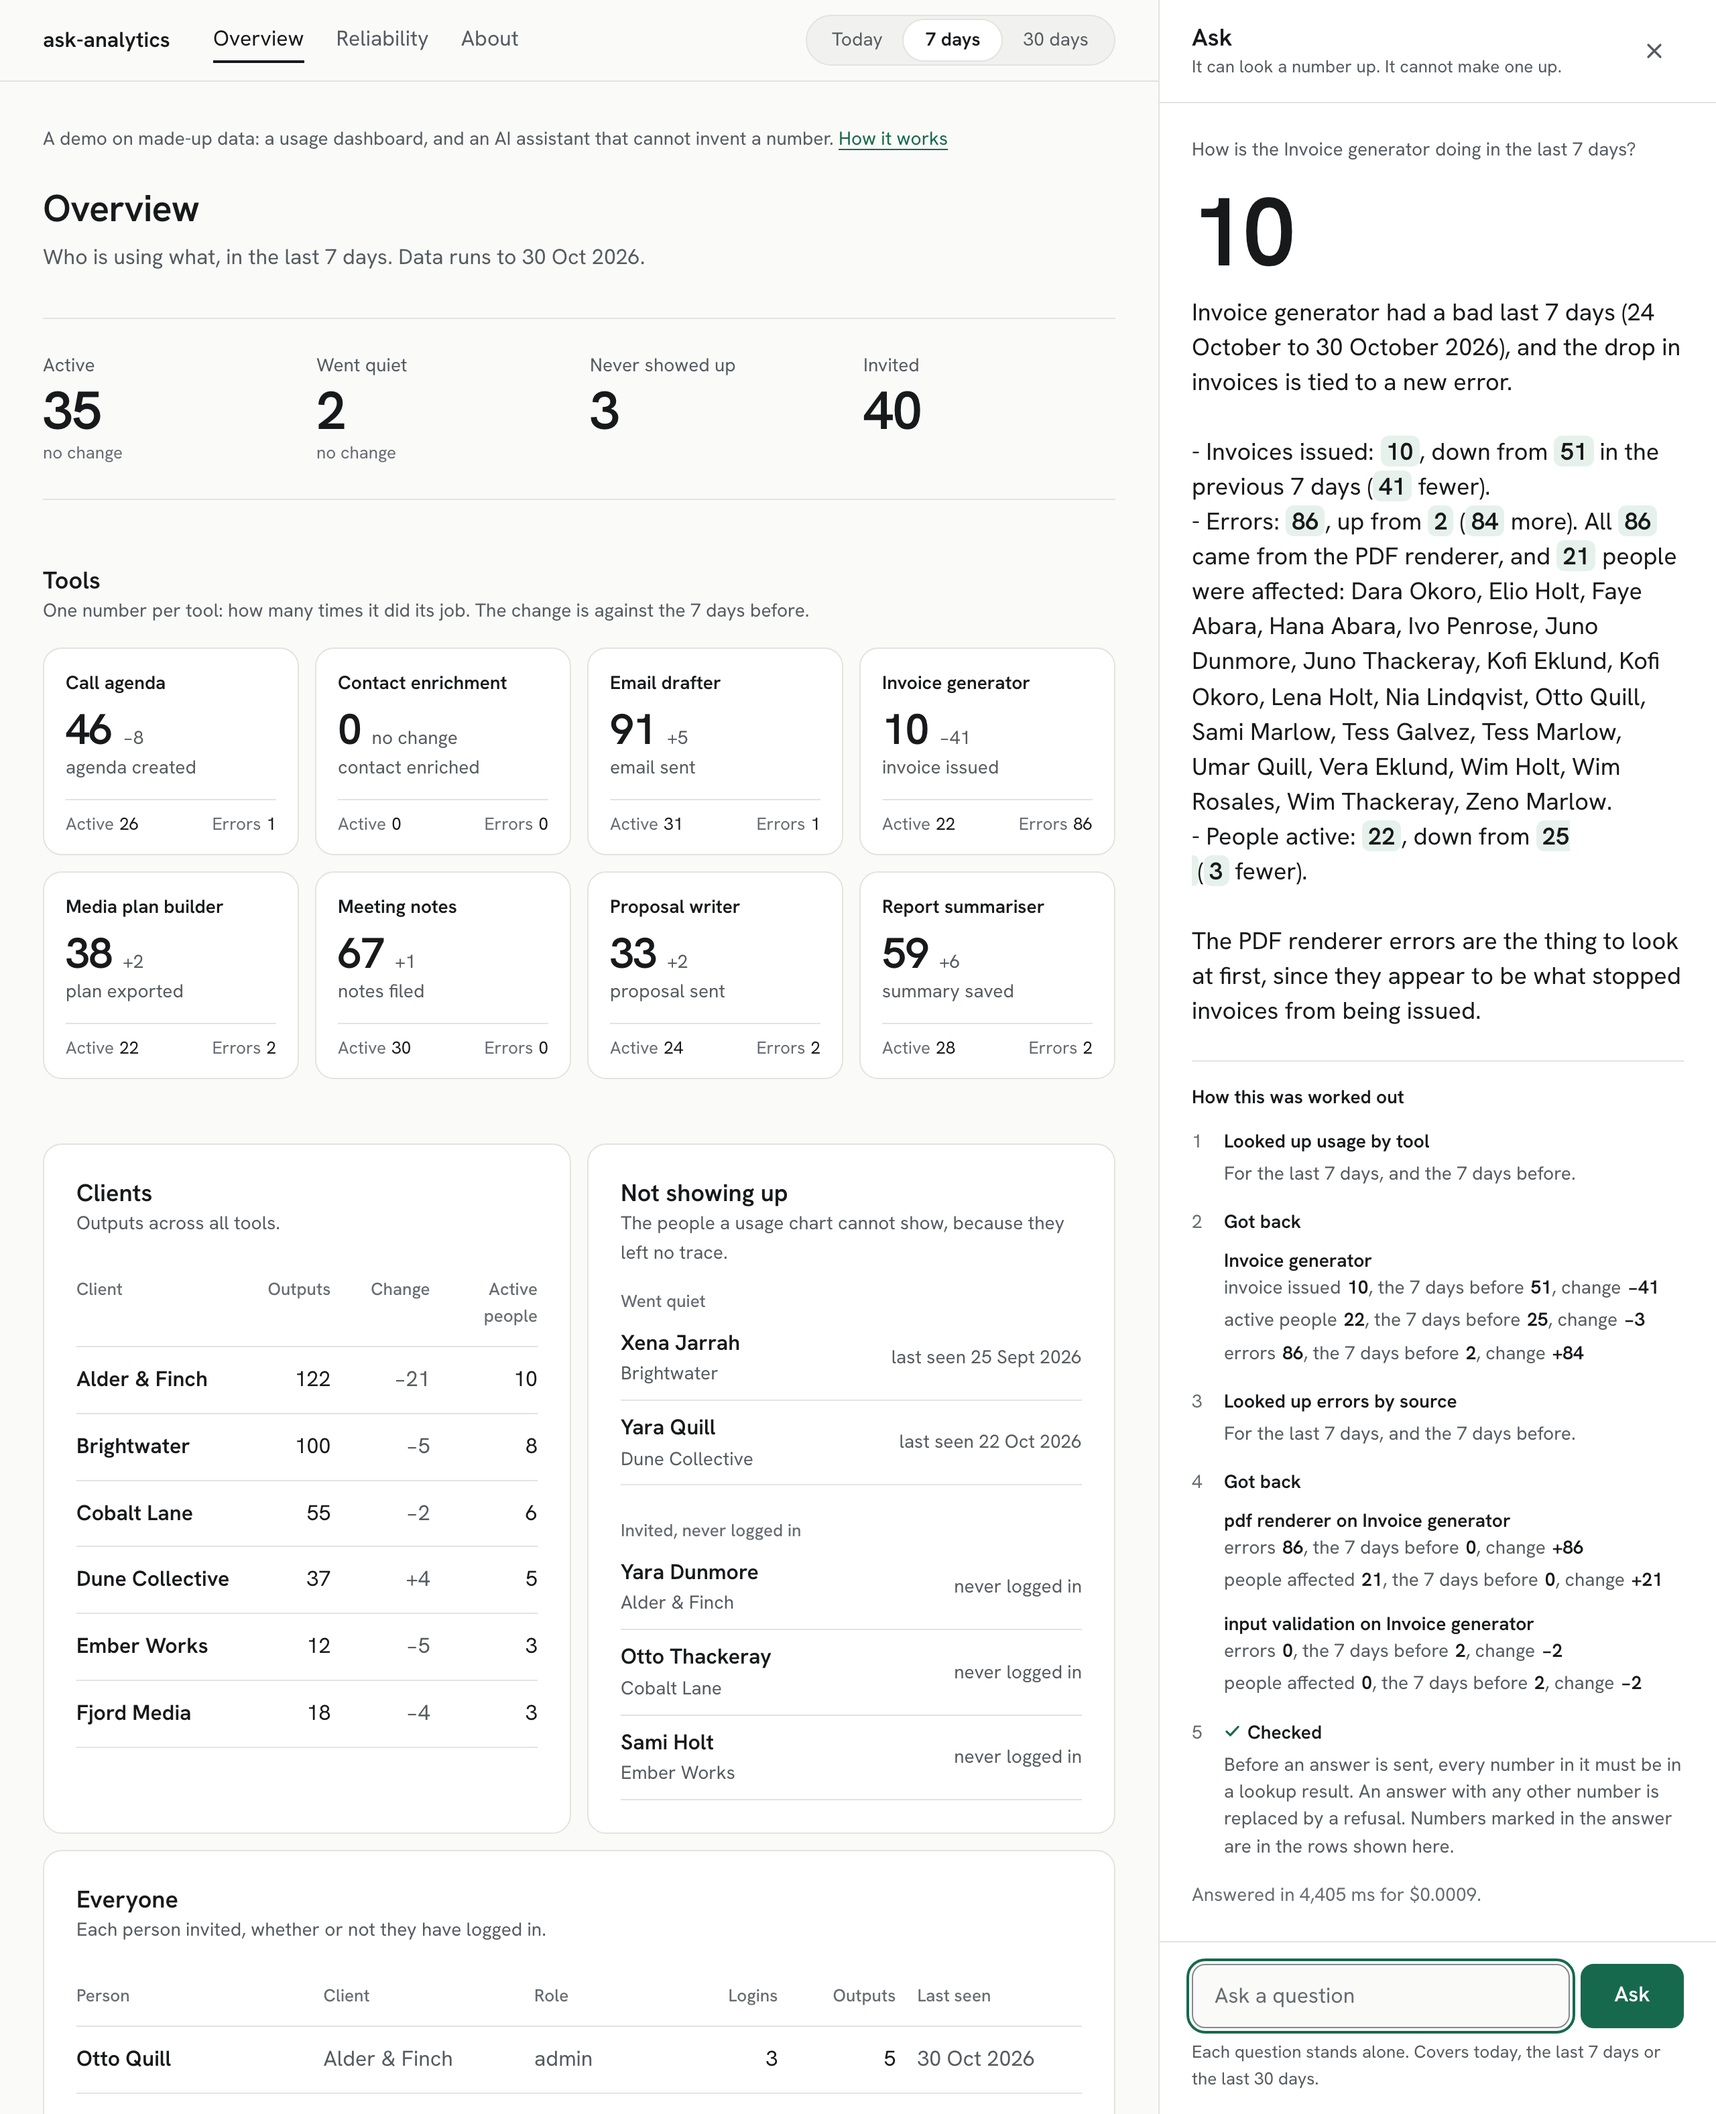
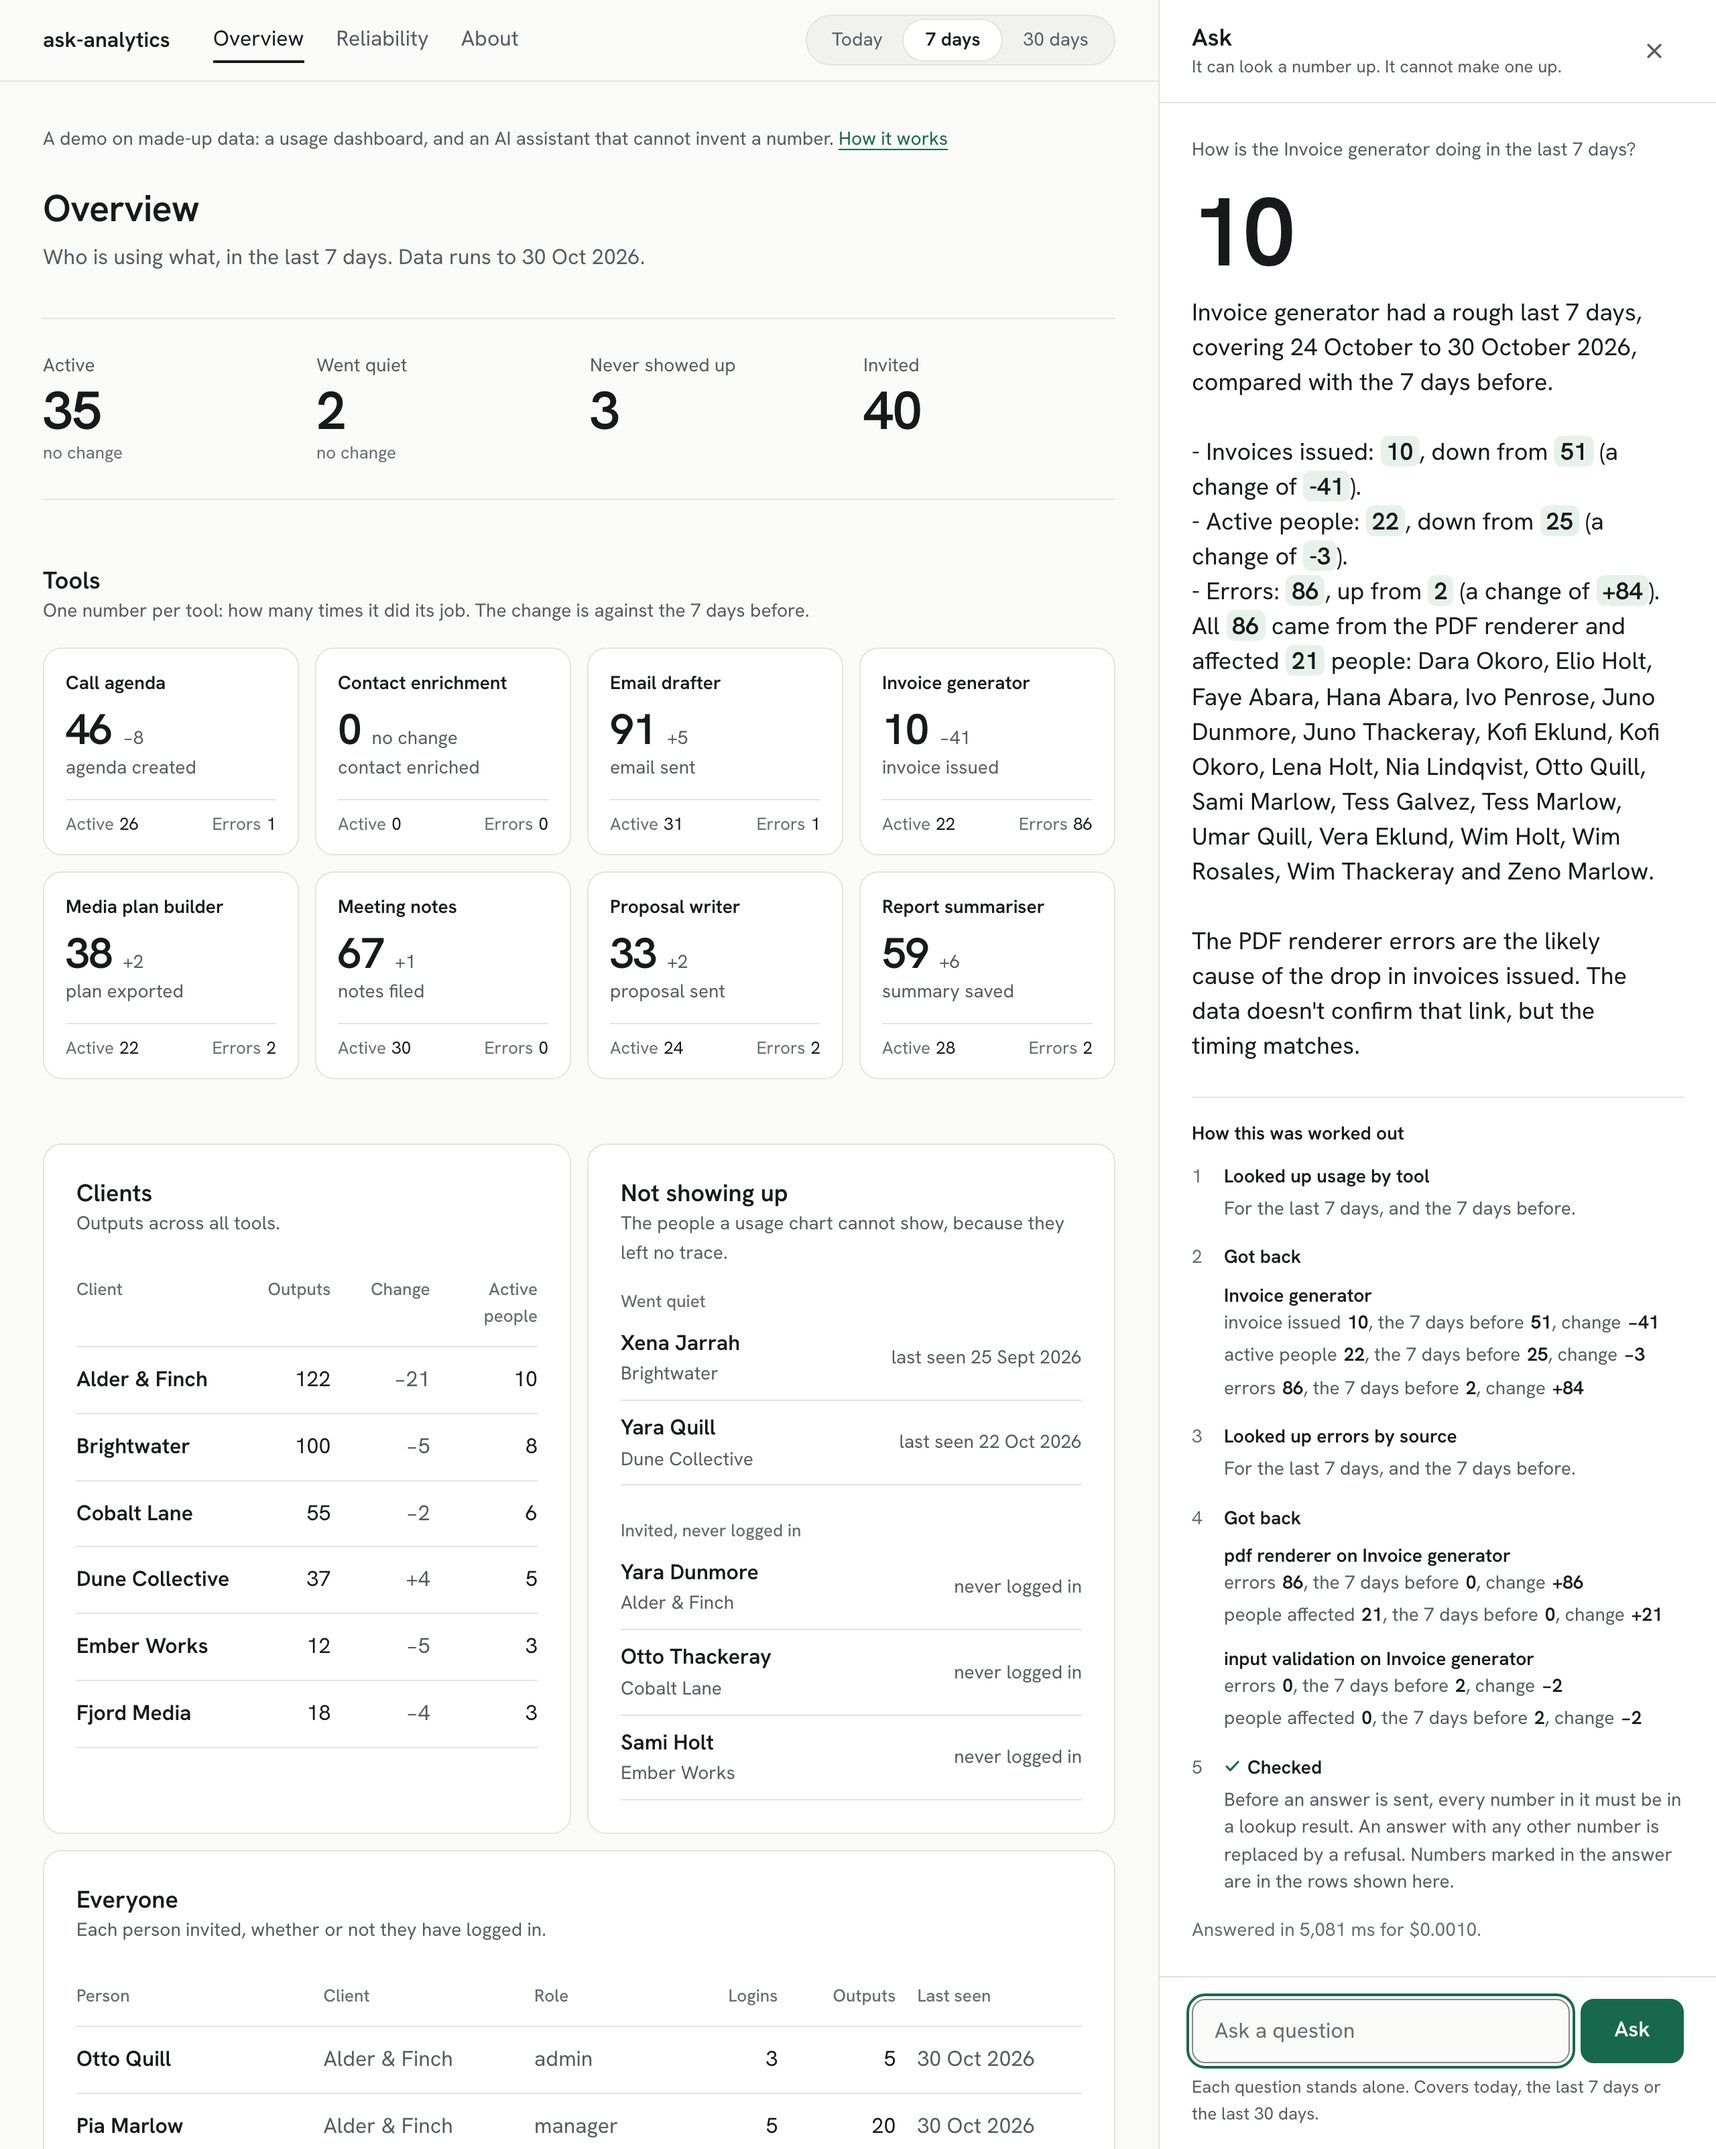
Read a span of days as a date when choosing the headline number
A live answer wrote "the last 7 days (24 to 30 October 2026)" and the
page showed 24 as the answer's number. Found in a frame of the explainer
video. The explainer now speaks a line about an answer only once the
answer is on screen.

diff --git a/frontend/src/lib/answer.test.ts b/frontend/src/lib/answer.test.ts
@@ -31,6 +31,16 @@ describe("reading an answer for display", () => {
     expect([...numbersOf(segmentsOf("There were 1,234 events."))]).toEqual([1234]);
   });
 
+  it("does not take a day from a span of dates as the hero", () => {
+    // Seen in the explainer video: the hero read 24, the first day of the window.
+    const live = "The Invoice generator is in trouble over the last 7 days (24 to 30 October 2026).\n\n- Invoices issued: 10, down from 51.";
+
+    expect(heroOf(segmentsOf(live))).toBe("10");
+    expect([...numbersOf(segmentsOf(live))]).toEqual([10, 51]);
+    expect([...numbersOf(segmentsOf("Against 51 before (October 17-23, 2026), now 10."))]).toEqual([51, 10]);
+    expect([...numbersOf(segmentsOf("From 17 \u2013 23 Oct it was 51."))]).toEqual([51]);
+  });
+
   it("has no hero when the answer states no number", () => {
     const segments = segmentsOf("Nobody has used Contact enrichment in the last 7 days.");
 

diff --git a/frontend/src/lib/answer.ts b/frontend/src/lib/answer.ts
@@ -16,6 +16,10 @@ const MONTH =
 const NOT_A_COUNT = new RegExp(
   [
     "\\d{4}-\\d{2}-\\d{2}", // 2026-10-30
+    // A span of days written once: "24 to 30 October 2026", "October 24-30". Before the
+    // single-date forms, so the first day is not left behind as a number.
+    `\\d{1,2}(?:st|nd|rd|th)?\\s*(?:to|until|through|[-\u2013\u2014])\\s*\\d{1,2}(?:st|nd|rd|th)?\\s+(?:of\\s+)?${MONTH}\\b(?:,?\\s+\\d{4})?`,
+    `${MONTH}\\s+\\d{1,2}(?:st|nd|rd|th)?\\s*(?:to|until|through|[-\u2013\u2014])\\s*\\d{1,2}(?:st|nd|rd|th)?(?:,?\\s+\\d{4})?`,
     `\\d{1,2}(?:st|nd|rd|th)?\\s+(?:of\\s+)?${MONTH}\\b(?:,?\\s+\\d{4})?`, // 30 October 2026
     `${MONTH}\\s+\\d{1,2}(?:st|nd|rd|th)?(?:,?\\s+\\d{4})?`, // October 30, 2026
     "\\b(?:7|30)(?:[\\s-]*days?|d)\\b", // the last 7 days, 30d

diff --git a/docs/PLAN.md b/docs/PLAN.md
@@ -995,5 +995,6 @@ Screenshots: 156 in demo mode (26 states) and 36 live. `npx impeccable detect` o
 
 An explainer video is produced by `frontend/scripts/explainer.mjs`: it drives the live app, speaks each scene and captions it. It is written to `screenshots/explainer.mp4`, which is not tracked.
 
-**Gate: passed.**
+*What the video caught.* A frame from the first recording showed the answer's headline number as 24. The model had written "the last 7 days (24 to 30 October 2026)" and the page took the first day of that span as the number. The page's answer reader now treats a span of days as a date, with a test built from that sentence; six varied live questions then gave the right headline each time (10, 382, 91, 2, 21, 632). The recording was also changed so that a line describing an answer is spoken only once the answer is on screen.
 
+**Gate: passed.**
